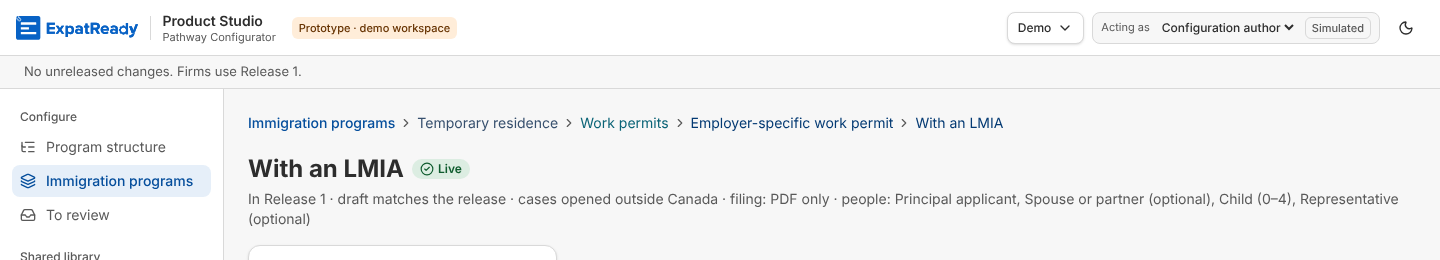
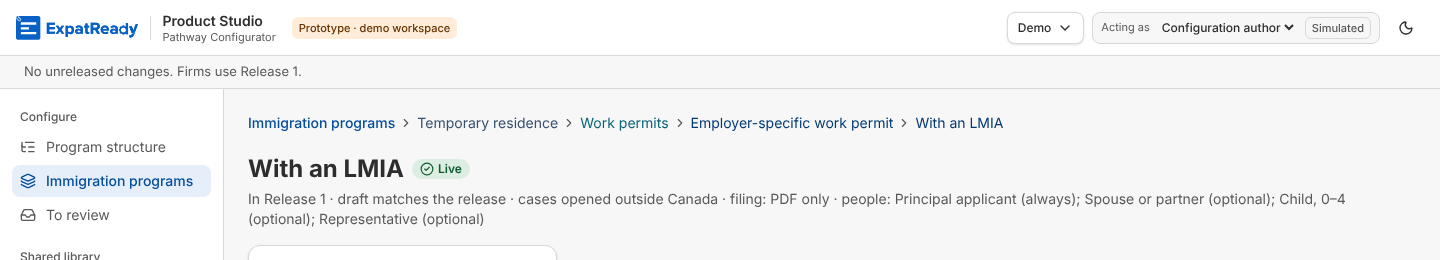
QA-77 (#113): one way to say each person on every page of a combination
The header's facts line said 'Child (travelling) (0–4)' and left the always-present person bare, the Who can be card
on Forms said 'Child (travelling), 0–4 (optional)' (board P-161 (2)), and the Questionnaires note gave names only. One
formatter (web/src/lib/people.ts) now writes all three in the card's words; the header separates people with '; '
because a person's words may hold a comma. The names themselves already agreed on main (QA-77); P-209's sample
rename is the runtime row X1c. check_qa77_names_browser 15/15 (new: header = card per person on two combinations,
Questionnaires note = card, old words would not match); c16 header 11/11, w1 before forms 23/23, screen01 116/116,
w115 slice 2 55/55, x1 tabs and focus 29/29.

Claude-Session: https://claude.ai/code/session_01Ln6TiQdvmwnNWxkBZdwHdv

Changed region(s): [[0.6875, 0.7385, 0.9688, 0.8], [0.2188, 0.8308, 0.3438, 0.8615]]

diff --git a/ai-workers/problem-1-pathway-setup-and-form-filling/prototype/studio/web/src/pages/workspace/questionnaires.tsx b/ai-workers/problem-1-pathway-setup-and-form-filling/prototype/studio/web/src/pages/workspace/questionnaires.tsx
@@ -19,6 +19,7 @@ import { ConfigArea } from "@/pages/configuration";
 import { FOCUS_RING, useFocusItem } from "@/components/focus-item";
 import { PartProblems } from "@/components/part-problems";
 import { cn } from "@/lib/utils";
+import { peopleWords } from "@/lib/people";
 
 const TIPS = {
   card: "Sets which people a case may include and how many; each person marked as applicant gets their own forms, questions and documents.",
@@ -31,7 +32,7 @@ const TIPS = {
 export function QuestionnairesTab({ id, people, questionnaire, available }: { id: string; people: PeopleView; questionnaire: QuestionnairesView | null; available: { key: string; title: string }[] }) {
   return (
     <div className="space-y-6">
-      <p className="text-sm text-text-muted" data-who-can-be-moved>Who can be in this application ({people.lines.filter((l) => l.max > 0).map((l) => l.label).join(", ") || "nobody yet"}) is set before the forms. <Link className="text-text-link underline" to={`/c/${id}/forms?focus=people%3Acard`}>Change on Forms</Link></p>
+      <p className="text-sm text-text-muted" data-who-can-be-moved>Who can be in this application ({peopleWords(people.lines, (l) => l.label) || "nobody yet"}) is set before the forms. <Link className="text-text-link underline" to={`/c/${id}/forms?focus=people%3Acard`}>Change on Forms</Link></p>
       <QuestionsByPerson id={id} q={questionnaire} available={available} />
       <ConfigArea id={id} areas={["rules", "checks"]} />
     </div>
@@ -43,7 +44,6 @@ const toLines = (v: PeopleView): Line[] => v.lines.map((l) => ({ role: l.role, l
 /** The folded line's plain words (board P-161 (2), Lead C1 decision 4): "Principal applicant (always) · Dependent child,
  *  0–5 (optional)"; exact counts and who files their own application stay in Show and edit. A role whose most is 0
  *  cannot be in the application, so the folded line leaves it out (#139 review). */
-const plainWords = (label: string, l: { min: number; max: number }) => `${label}${l.max > 1 ? `, ${l.min}–${l.max}` : ""} (${l.min > 0 ? "always" : "optional"})`;
 const howMany = (l: { min: number; max: number }) => (l.min === l.max ? (l.min === 1 ? "exactly 1" : `exactly ${l.min}`) : `${l.min} to ${l.max}`);
 
 export function WhoCanBe({ id, v }: { id: string; v: PeopleView }) {
@@ -95,7 +95,7 @@ export function WhoCanBe({ id, v }: { id: string; v: PeopleView }) {
   const shown = editing ? lines : toLines(v);
   if (!unfolded && !editing && !filling) return (
     <section aria-labelledby="who-can-be" className="flex flex-wrap items-center justify-between gap-2 rounded-xl border border-border bg-surface-raised px-5 py-3 shadow-sm" data-who-can-be data-folded>
-      <p className="min-w-0 text-sm"><span id="who-can-be" className="font-semibold">Who can be in this application</span> <span className="text-text-muted" data-people-words>· {shown.filter((l) => l.max > 0).map((l) => plainWords(nameOf(l), l)).join(" · ")}</span></p>
+      <p className="min-w-0 text-sm"><span id="who-can-be" className="font-semibold">Who can be in this application</span> <span className="text-text-muted" data-people-words>· {peopleWords(shown, nameOf)}</span></p>
       <Button size="sm" variant="ghost" onClick={() => setUnfolded(true)} aria-expanded={false}><ChevronDown /> {canAuthor ? "Show and edit" : "Show"}</Button>
     </section>
   );

diff --git a/ai-workers/problem-1-pathway-setup-and-form-filling/prototype/studio/web/src/pages/combination.tsx b/ai-workers/problem-1-pathway-setup-and-form-filling/prototype/studio/web/src/pages/combination.tsx
@@ -10,6 +10,7 @@ import { StatusChip, TipProvider } from "@/components/status";
 import { useActorId, useApi } from "@/lib/api";
 import { Button, Notice, Pill } from "@/components/ui/controls";
 import { Spinner } from "@/components/ui/spinner";
+import { peopleWords } from "@/lib/people";
 import { ErrorState } from "@/components/ui/error-state";
 import { cn } from "@/lib/utils";
 import { PreviewTab as StudioPreview } from "@/pages/preview";
@@ -25,8 +26,6 @@ import { LEVEL_TEXT } from "@/components/levels";
 /** Where it sits, read-only here (P-125 (3)), in the level colours of the shared Trail (S3 m6). */
 const PLACE_TEXT: Record<string, string> = { Pathway: LEVEL_TEXT.pathway, Program: LEVEL_TEXT.program, Category: LEVEL_TEXT.category, "Sub-category": LEVEL_TEXT.subCategory };
 
-/** "Principal applicant, Spouse or partner (optional), Child (0–6)": who can be in the application, in one line. */
-const peopleWords = (ps: { label: string; min: number; max: number }[]) => (ps ?? []).filter((p) => p.max > 0).map((p) => `${p.label}${p.max > 1 ? ` (${p.min}–${p.max})` : p.min === 0 ? " (optional)" : ""}`).join(", ");
 
 /** The combination workspace (S5, W1-08; P-50: a Programs row opens it). Its header carries the full path with every
  *  level a link back to the list filtered to it, the status, the facts in one muted line and the one next step; one row
@@ -84,7 +83,8 @@ export function CombinationPage() {
     // filed, from its form lines; said only once a form that is actually filed is on it (not a checklist, not a line
     // marked Not needed: review c16 m1).
     sum.data?.forms?.some((f) => !f.document && f.channel !== "NOT_NEEDED") ? `filing: ${sum.data.filing}` : null,
-    `people: ${peopleWords(c.participants)}`,
+    // QA-77: the same words per person as Who can be on Forms; "; " because a person's words may hold a comma.
+    `people: ${peopleWords(c.participants, (p) => p.label, "; ")}`,
     c.source_basis === "ILLUSTRATIVE" ? "Sample" : null, // SC-5: no "source-backed" jargon in the subtitle
   ].filter(Boolean).join(" · ");
   return (

diff --git a/ai-workers/problem-1-pathway-setup-and-form-filling/prototype/studio/web/src/lib/people.ts b/ai-workers/problem-1-pathway-setup-and-form-filling/prototype/studio/web/src/lib/people.ts
@@ -1,0 +1,7 @@
+/** One way to say who can be in an application (QA-77, C11.12; board P-161 (2)): "Principal applicant (always)",
+ *  "Child (travelling), 0–4 (optional)". The header's facts line, the folded Who can be line on Forms and the
+ *  Questionnaires note all use it, so a person reads the same on every page of the combination (#113, runtime builder).
+ *  A role whose most is 0 cannot be in the application and is left out (#139 review). */
+export const personWords = (label: string, l: { min: number; max: number }) => `${label}${l.max > 1 ? `, ${l.min}–${l.max}` : ""} (${l.min > 0 ? "always" : "optional"})`;
+export const peopleWords = <T extends { min: number; max: number }>(ps: T[] | null | undefined, name: (p: T) => string, sep = " · ") =>
+  (ps ?? []).filter((p) => p.max > 0).map((p) => personWords(name(p), p)).join(sep);
